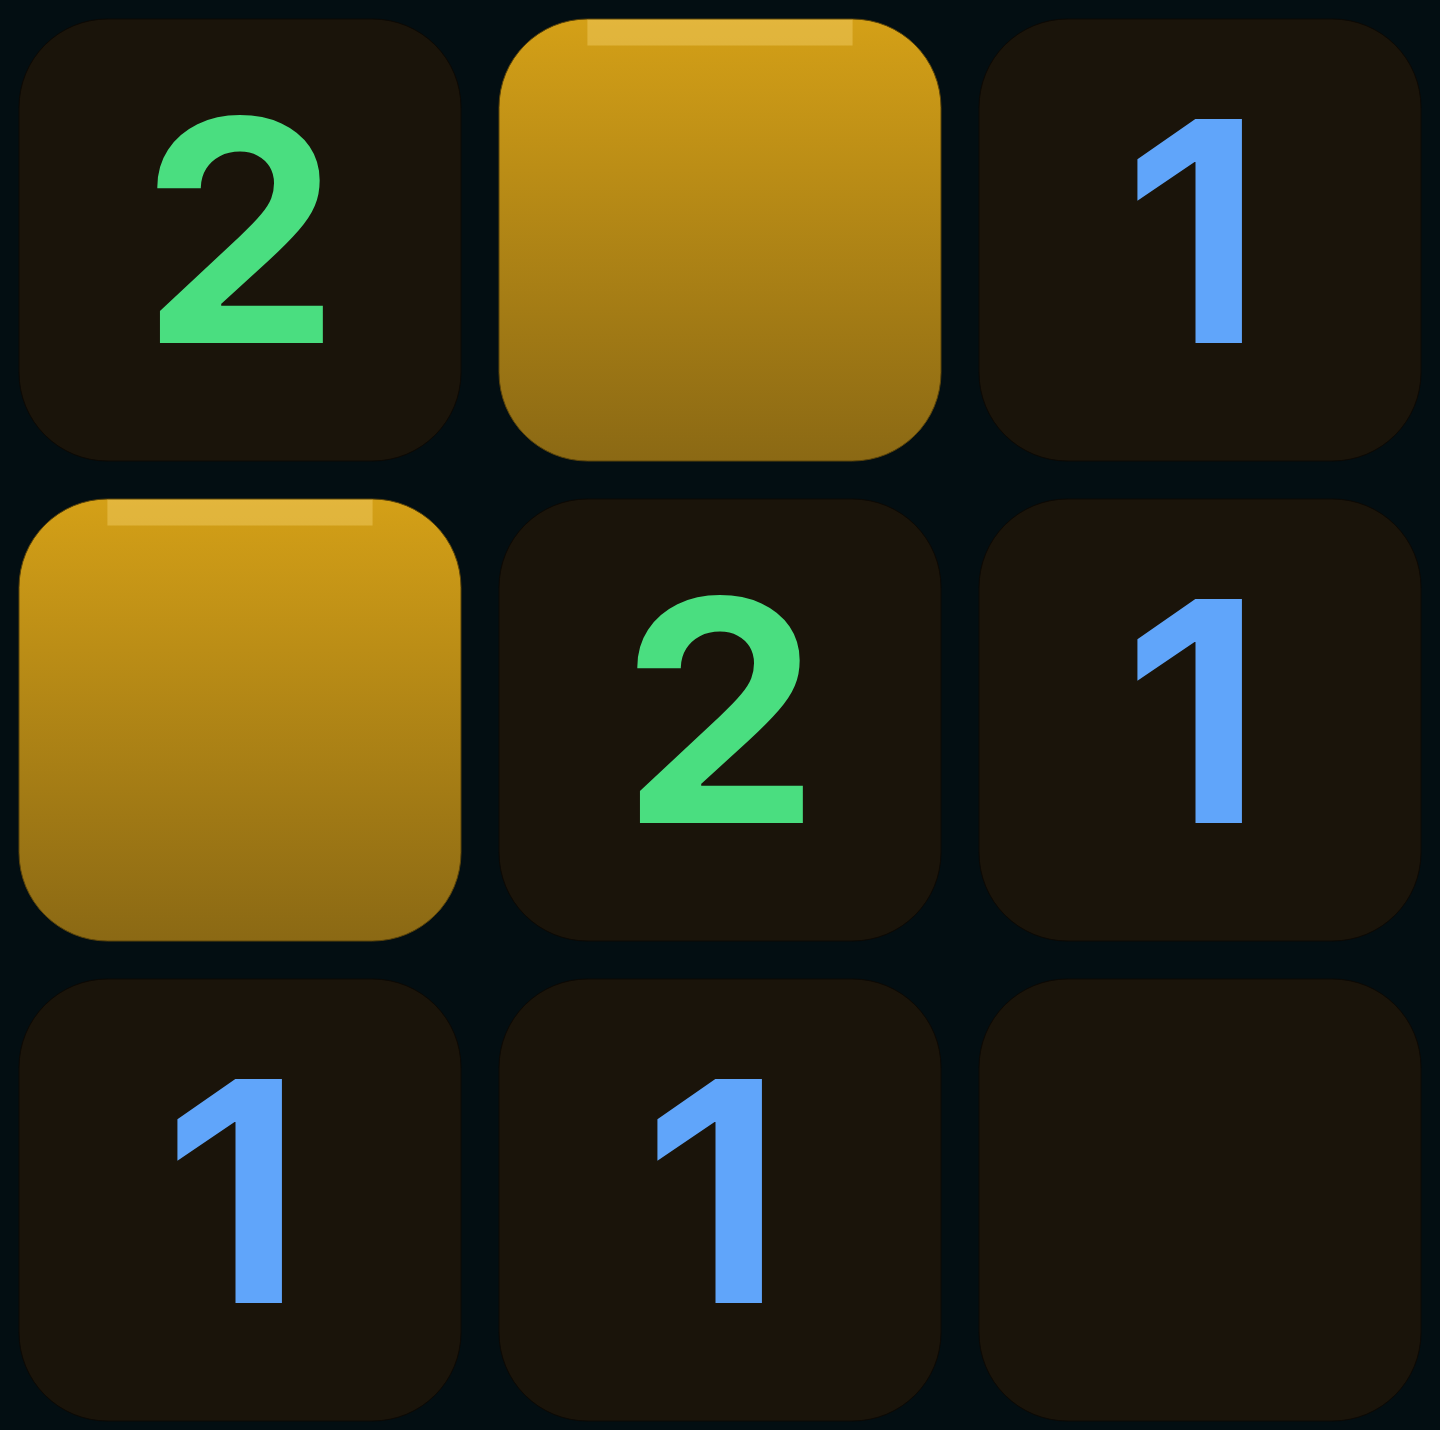
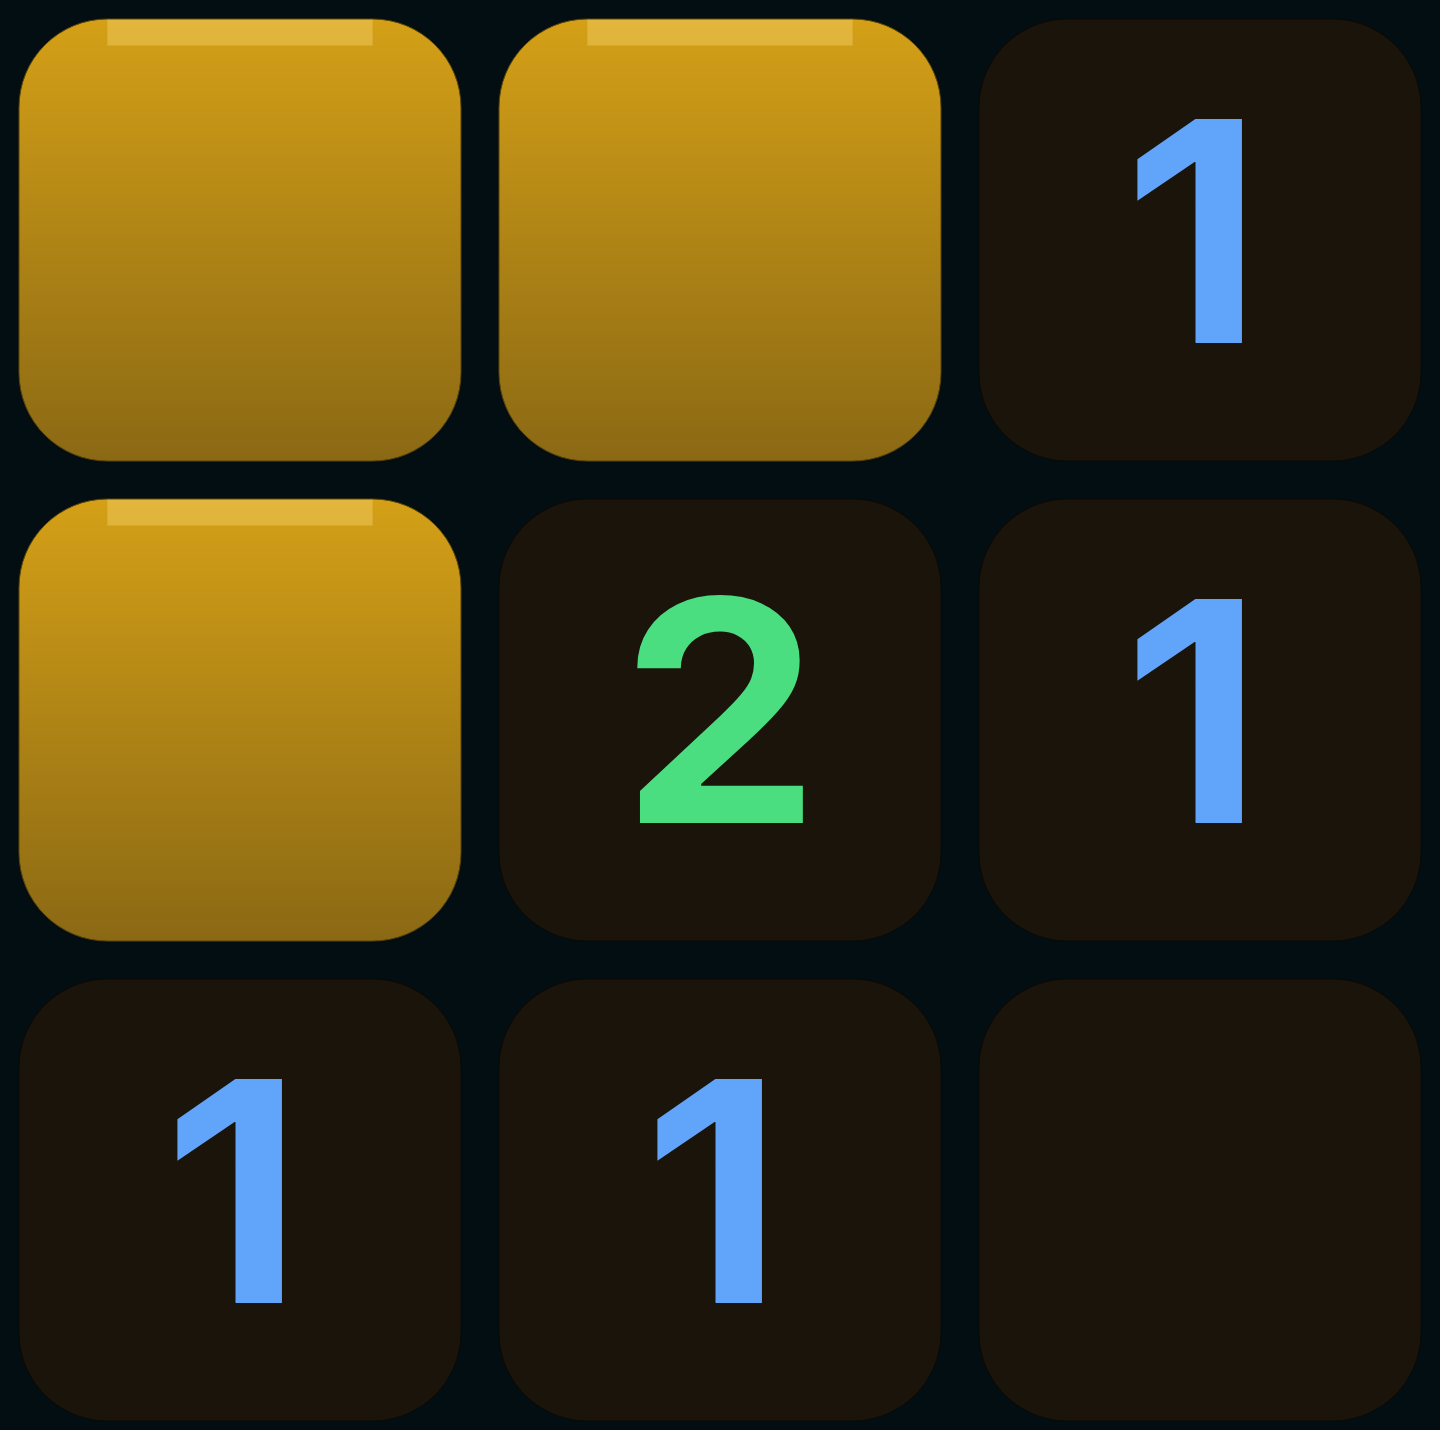
Cover the third corner cell in the skin preview board too
(0,0) was the only revealed corner around the two mines, but a real
in-progress board has ordinary not-yet-clicked cells too, not just
mines, left covered. Added it to the covered set (SKIN_PREVIEW_COVERED,
separate from SKIN_PREVIEW_MINES which still only has the 2 real
mines driving the clue math) so it renders covered without being a
mine — layout is now XX1 / X21 / 110.

Claude-Session: https://claude.ai/code/session_01DgXfs2W16mLfi6JtTGtGTa

Changed region(s): [[0.0, 0.0, 0.3438, 0.3438]]

diff --git a/src/client/views/Profile.js b/src/client/views/Profile.js
@@ -4,9 +4,11 @@
 // rating fields the server updates after each ranked match. The rank chips on
 // the home page (renderHomeRankChips) read the same data.
 
-// The fixed mine layout every skin preview renders — two mines, left of center, left COVERED
-// (not revealed/exploded, so the unknown-cell gradient/border shows too, not just clue numbers):
-//   2 X 1
+// The fixed mine layout every skin preview renders — two mines, left of center; COVERED cells
+// (not revealed/exploded, so the unknown-cell gradient/border shows too, not just clue numbers)
+// are the two mines PLUS (0,0), an ordinary safe cell simply not clicked yet — same as a real
+// in-progress board, where a covered cell doesn't necessarily mean a mine:
+//   X X 1
 //   X 2 1
 //   1 1 0
 // A real mini board (not the flat 4-swatch strip this replaced) so a skin's actual tile
@@ -16,26 +18,26 @@
 // (scripts/render-skin-preview-images.js navigates to a real page and grabs this exact canvas, so
 // there's one rendering to keep in sync, not two).
 var SKIN_PREVIEW_MINES = [[0, 1], [1, 0]];
-function skinPreviewIsMineCell(r, c) {
-	return SKIN_PREVIEW_MINES.some(function(m) { return m[0] === r && m[1] === c; });
+var SKIN_PREVIEW_COVERED = [[0, 0], [0, 1], [1, 0]]; // mines + one plain not-yet-clicked cell
+function cellInList(list, r, c) {
+	return list.some(function(m) { return m[0] === r && m[1] === c; });
 }
 function skinPreviewCellAt(r, c) {
-	if (skinPreviewIsMineCell(r, c)) return MINE;
+	if (cellInList(SKIN_PREVIEW_MINES, r, c)) return MINE;
 	var count = 0;
 	BoardLogic.forEachNeighbour(r, c, 3, 3, function(nr, nc) {
-		if (skinPreviewIsMineCell(nr, nc)) count++;
+		if (cellInList(SKIN_PREVIEW_MINES, nr, nc)) count++;
 	});
 	return count;
 }
 // Built lazily inside the function below, not at module-eval time: KNOWN/UNKNOWN are page globals
 // assigned by Main.js, which loads AFTER this file (see the sentinel-timing comment in
 // BoardRender.js) — referencing them here at the top level would throw ReferenceError on page load.
-// Mines stay covered (UNKNOWN) — every other cell is revealed (KNOWN) showing its clue.
 function skinPreviewState() {
 	var state = [];
 	for (var r = 0; r < 3; r++) {
 		var row = [];
-		for (var c = 0; c < 3; c++) row.push(skinPreviewIsMineCell(r, c) ? UNKNOWN : KNOWN);
+		for (var c = 0; c < 3; c++) row.push(cellInList(SKIN_PREVIEW_COVERED, r, c) ? UNKNOWN : KNOWN);
 		state.push(row);
 	}
 	return state;
